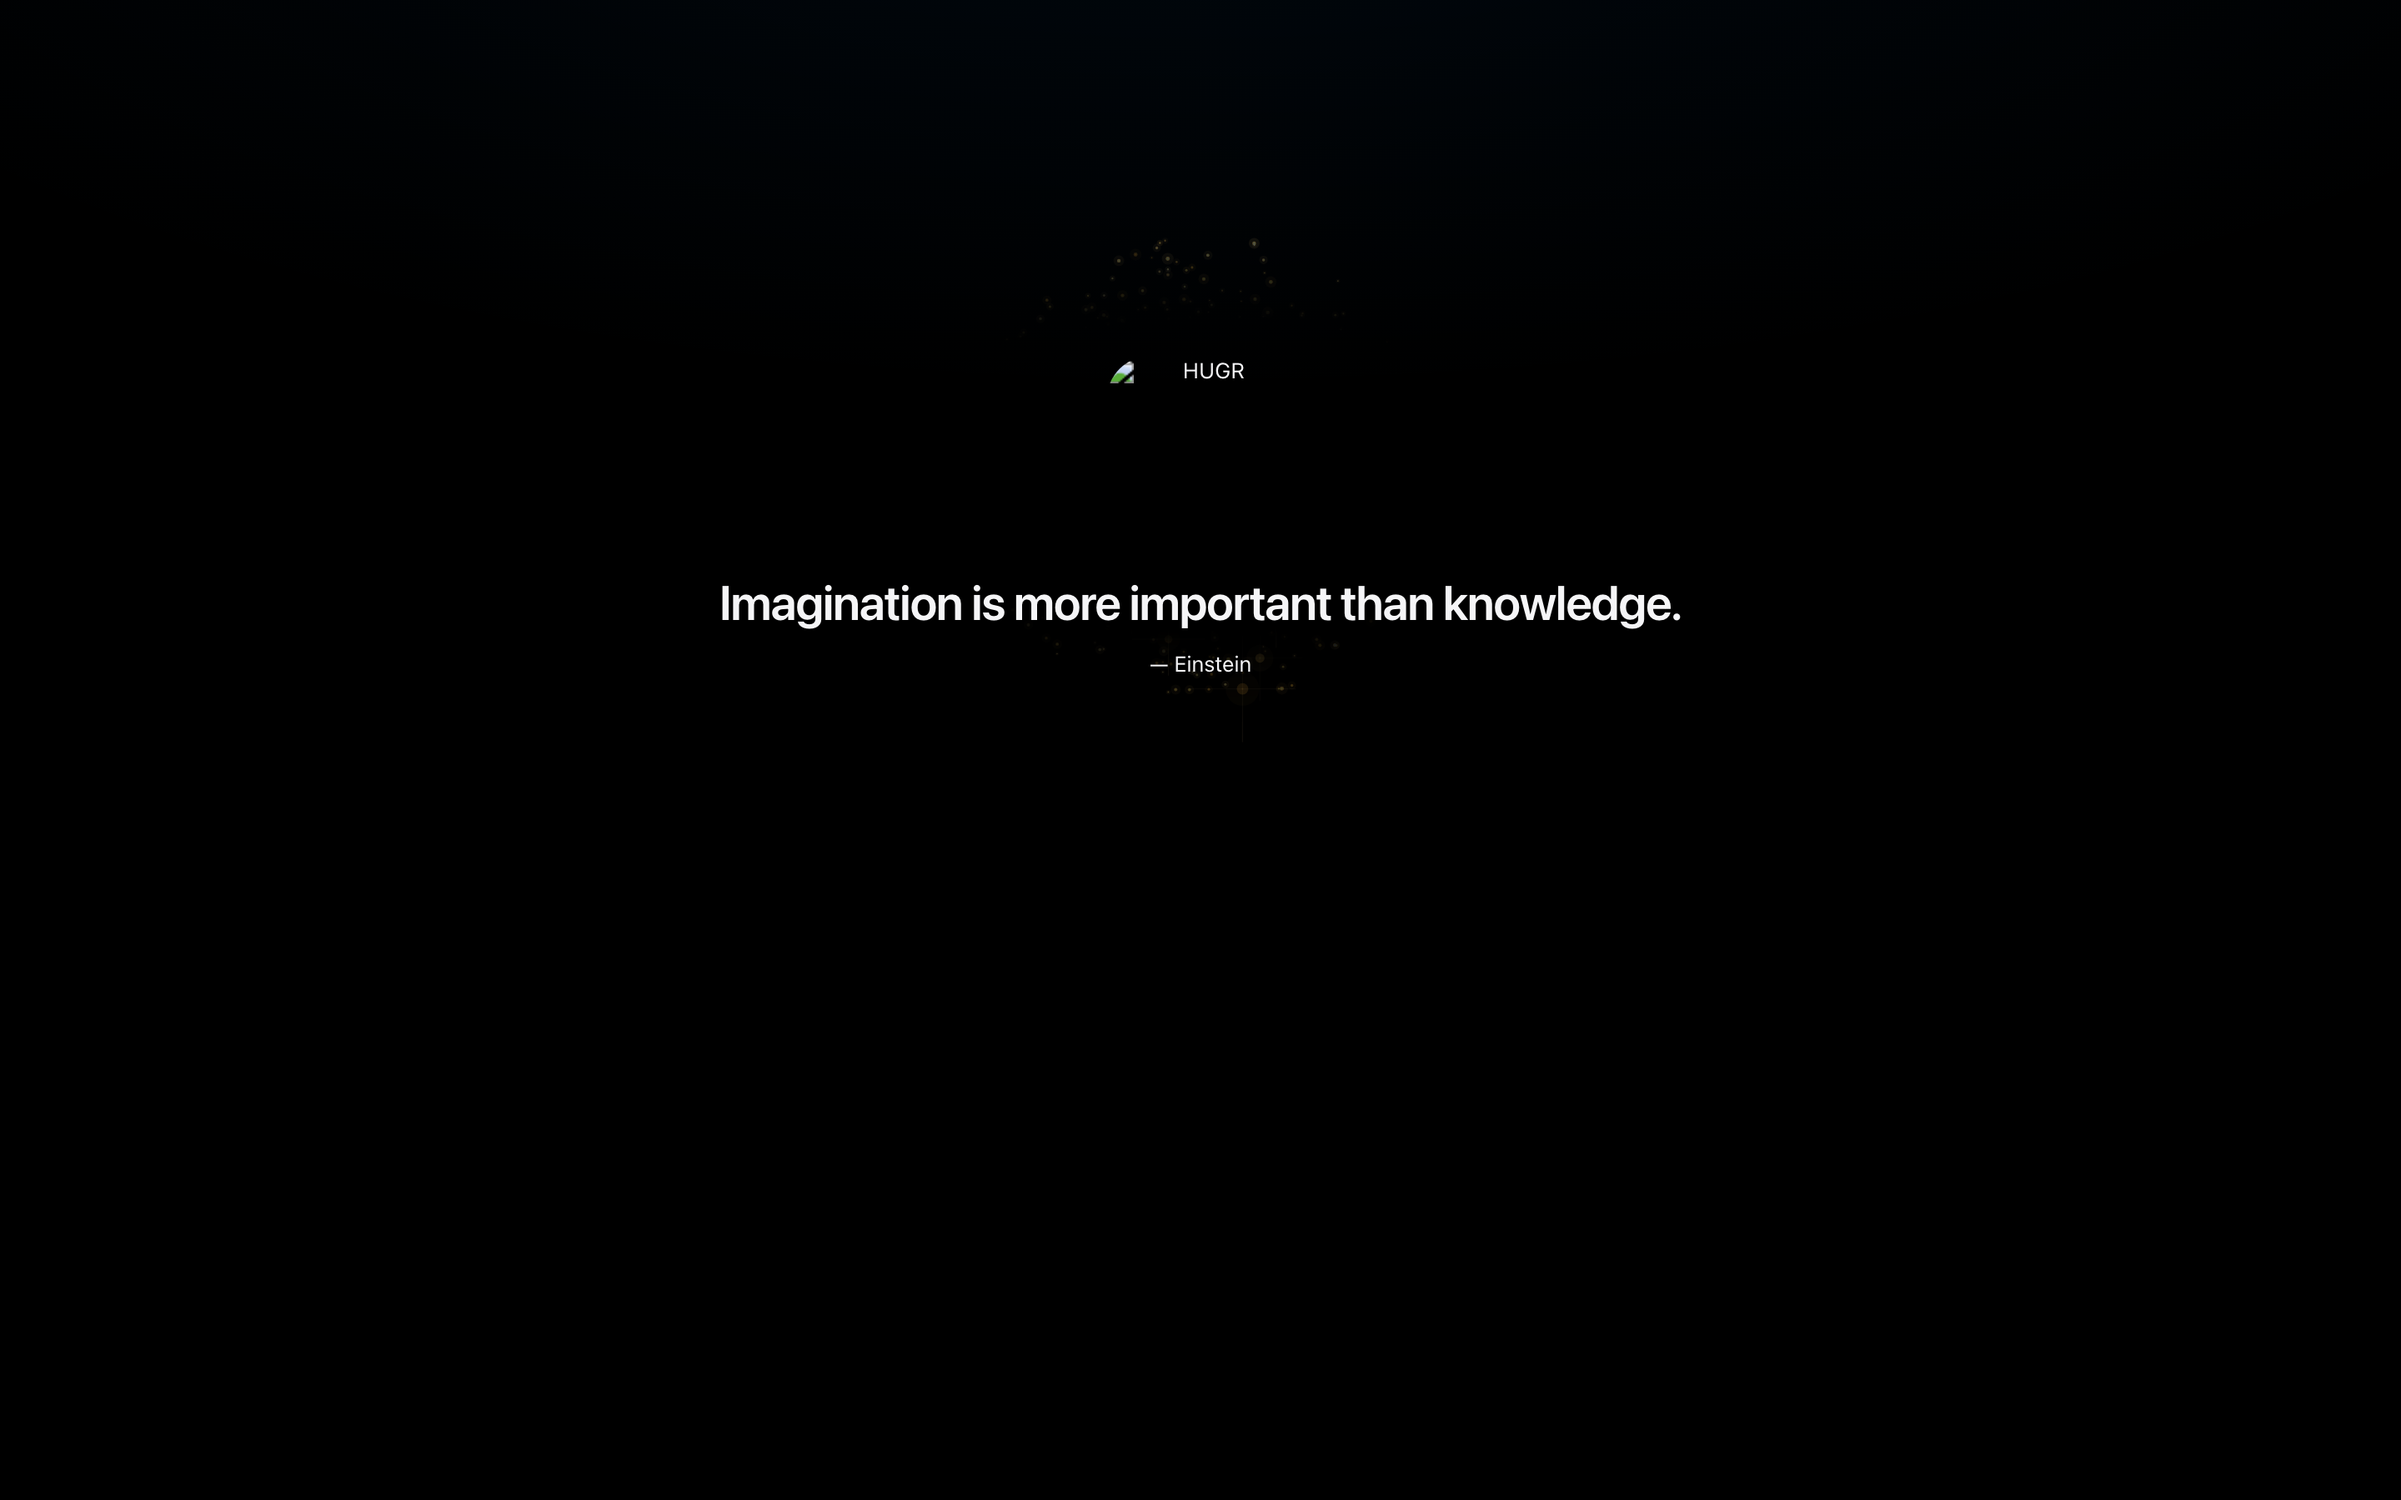
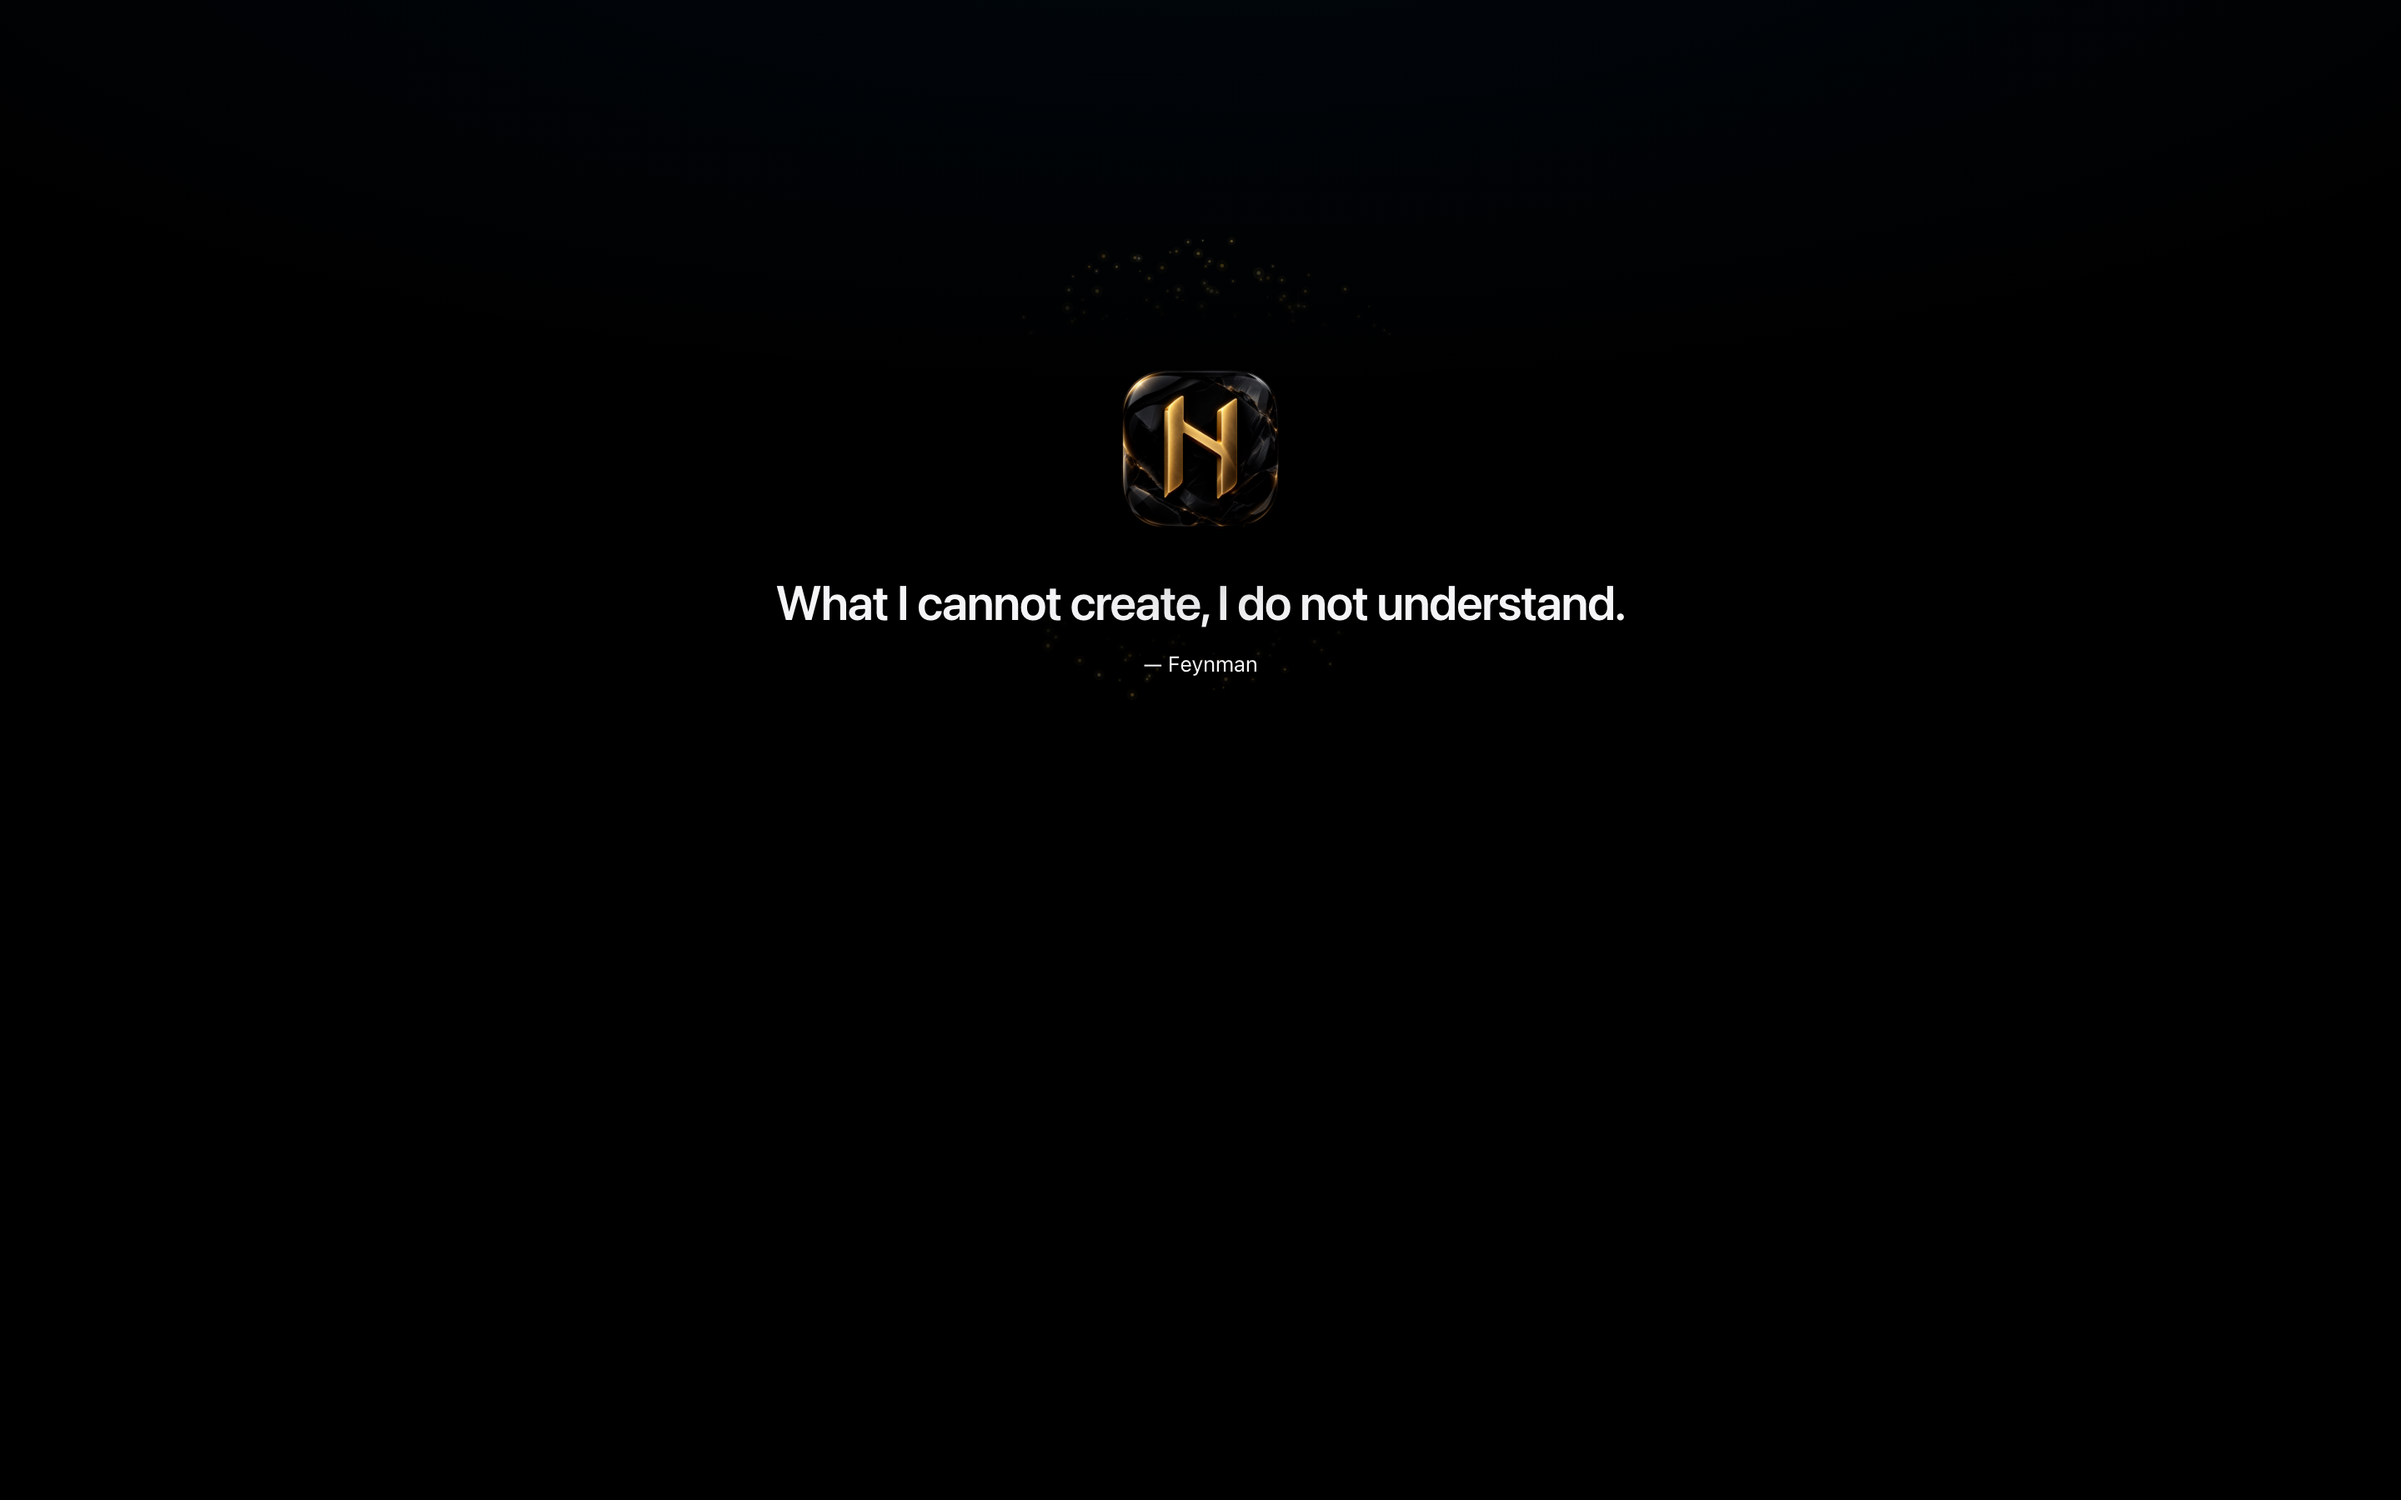
feat: newchat empty state proof rig — 8 real frames (both themes, all timestamps distinct)

Changed region(s): [[0.3125, 0.3733, 0.6875, 0.4667], [0.4688, 0.2489, 0.5312, 0.3422]]

diff --git a/tools/capture-frames.ts b/tools/capture-frames.ts
@@ -1,0 +1,210 @@
+#!/usr/bin/env bun
+
+import { chromium } from "playwright";
+import { writeFile, readFile, mkdir } from "fs/promises";
+import { createHash } from "crypto";
+import { resolve, dirname } from "path";
+import { serve } from "bun";
+
+const ROOT = resolve(import.meta.dir, "..");
+const SCREENSHOTS_DIR = resolve(ROOT, "screenshots");
+
+// Ensure screenshots directory exists
+await mkdir(SCREENSHOTS_DIR, { recursive: true });
+
+const THEMES = ["apple", "apple-dark"];
+const TIMESTAMPS = [0, 1500, 3000, 2600]; // ms
+
+interface Frame {
+  label: string;
+  path: string;
+  md5: string;
+  theme: string;
+  timestamp: number;
+  t2600Title?: string;
+}
+
+const frames: Frame[] = [];
+const md5s = new Map<string, string>();
+
+// Start simple HTTP server to serve the repo
+const PORT = 9988;
+
+const server = serve({
+  port: PORT,
+  fetch(req) {
+    const url = new URL(req.url);
+    const pathname = url.pathname === "/" ? "/tools/newchat-proof.html" : url.pathname;
+    const filePath = resolve(ROOT, pathname.slice(1)); // Remove leading /
+
+    // Basic file serving
+    if (pathname.endsWith(".html")) {
+      return new Response(Bun.file(filePath));
+    } else if (pathname.endsWith(".js")) {
+      return new Response(Bun.file(filePath), {
+        headers: { "Content-Type": "text/javascript" },
+      });
+    } else if (pathname.endsWith(".json")) {
+      return new Response(Bun.file(filePath), {
+        headers: { "Content-Type": "application/json" },
+      });
+    } else if (pathname.endsWith(".css")) {
+      return new Response(Bun.file(filePath), {
+        headers: { "Content-Type": "text/css" },
+      });
+    } else if (pathname.endsWith(".png")) {
+      return new Response(Bun.file(filePath), {
+        headers: { "Content-Type": "image/png" },
+      });
+    } else {
+      // Try serving as-is for any other file
+      return new Response(Bun.file(filePath));
+    }
+  },
+});
+
+console.log(`🌐 HTTP server started on http://localhost:${PORT}`);
+
+// Small delay to ensure server is ready
+await new Promise((resolve) => setTimeout(resolve, 500));
+
+console.log("🎬 Launching headless Chromium...");
+const browser = await chromium.launch({ headless: true });
+
+try {
+  for (const theme of THEMES) {
+    for (const ts of TIMESTAMPS) {
+      const frameLabel = `${theme}-t${ts}`;
+      const outputFile = resolve(SCREENSHOTS_DIR, `${frameLabel}.png`);
+
+      console.log(`📸 Capturing ${frameLabel}...`);
+
+      const page = await browser.newPage({
+        viewport: { width: 1440, height: 900 },
+        deviceScaleFactor: 2,
+      });
+
+      // Capture console for debugging
+      page.on("console", (msg) => {
+        if (msg.type() === "error") {
+          console.error(`  [console] ${msg.text()}`);
+        }
+      });
+
+      page.on("pageerror", (error) => {
+        console.error(`  [page error] ${error.message}`);
+      });
+
+      try {
+        // Load the HTML via HTTP
+        const url = `http://localhost:${PORT}/tools/newchat-proof.html`;
+        await page.goto(url, { waitUntil: "networkidle" });
+
+        // Set the theme BEFORE we wait
+        await page.evaluate((t) => {
+          document.documentElement.dataset.theme = t;
+        }, theme);
+
+        // Wait for the specified timestamp to let dust/animations play
+        if (ts > 0) {
+          await page.waitForTimeout(ts);
+        }
+
+        // Take screenshot
+        const screenshot = await page.screenshot({ path: outputFile });
+
+        // For t2600, extract the title for verification
+        let t2600Title: string | undefined;
+        if (ts === 2600) {
+          t2600Title = await page.evaluate(() => {
+            const el = document.querySelector(".newchat-title");
+            return el ? el.textContent : "NOT FOUND";
+          });
+        }
+
+        // Compute MD5
+        const hash = createHash("md5").update(screenshot).digest("hex");
+        md5s.set(frameLabel, hash);
+
+        frames.push({
+          label: frameLabel,
+          path: outputFile,
+          md5: hash,
+          theme,
+          timestamp: ts,
+          t2600Title,
+        });
+
+        console.log(`  ✓ ${frameLabel} (md5: ${hash.slice(0, 8)}...)`);
+        if (t2600Title && t2600Title !== "Creation is at your fingertips.") {
+          console.log(`  → t2600 saying: "${t2600Title}"`);
+        }
+      } finally {
+        await page.close();
+      }
+    }
+  }
+
+  // Self-gate: verify no duplicates
+  console.log("\n🔐 Self-gate: MD5 deduplication...");
+  const hashes = Array.from(md5s.values());
+  const uniqueHashes = new Set(hashes);
+
+  if (uniqueHashes.size !== hashes.length) {
+    console.error("❌ DUPLICATE FRAMES DETECTED!");
+    for (const [label, hash] of md5s) {
+      const count = hashes.filter((h) => h === hash).length;
+      if (count > 1) {
+        console.error(`   ${label}: ${hash} (×${count})`);
+      }
+    }
+    process.exit(1);
+  }
+
+  console.log(`✓ All 8 frames are distinct`);
+
+  // Report structure for verification
+  const report = {
+    timestamp: new Date().toISOString(),
+    frames: frames.map((f) => ({
+      label: f.label,
+      path: f.path,
+      md5: f.md5,
+      theme: f.theme,
+      timestamp: f.timestamp,
+      t2600Title: f.t2600Title,
+    })),
+    viewport: { width: 1440, height: 900, deviceScaleFactor: 2 },
+    themes: THEMES,
+    timestamps: TIMESTAMPS,
+    distinctFrames: uniqueHashes.size,
+  };
+
+  await writeFile(
+    resolve(SCREENSHOTS_DIR, "report.json"),
+    JSON.stringify(report, null, 2)
+  );
+
+  console.log("\n✅ PROOF COMPLETE");
+  console.log(`Root: ${ROOT}`);
+  console.log(`Screenshots: ${SCREENSHOTS_DIR}`);
+
+  // Output for task return
+  console.log("\n=== TASK RETURN ===");
+  console.log(`Frame paths:`);
+  for (const frame of frames) {
+    console.log(`  ${frame.path}`);
+  }
+  console.log(`\nMD5 list (proving all distinct):`);
+  for (const frame of frames) {
+    console.log(`  ${frame.label}: ${frame.md5}`);
+  }
+  console.log(`\nT2600 titles (per theme):`);
+  for (const frame of frames.filter((f) => f.timestamp === 2600)) {
+    console.log(`  ${frame.theme}: "${frame.t2600Title}"`);
+  }
+  console.log(`\nAll distinct: ${uniqueHashes.size === 8 ? "✓" : "❌"}`);
+} finally {
+  await browser.close();
+  process.exit(0);
+}

diff --git a/tools/newchat-proof.html b/tools/newchat-proof.html
@@ -1,0 +1,149 @@
+<!DOCTYPE html>
+<html lang="en">
+<head>
+  <meta charset="UTF-8">
+  <meta name="viewport" content="width=device-width, initial-scale=1">
+  <title>HUGR Newchat Empty State Proof</title>
+  <link rel="stylesheet" href="/web/src/styles.css">
+  <style>
+    * { margin: 0; padding: 0; box-sizing: border-box; }
+    html { font-family: -apple-system, BlinkMacSystemFont, "Segoe UI", "Helvetica Neue", sans-serif; }
+    body { width: 100%; height: 100vh; background: var(--color-bg-root); overflow: hidden; }
+    #root { width: 100%; height: 100%; }
+  </style>
+</head>
+<body>
+<div id="root"></div>
+
+<script type="module">
+  // Enable error logging
+  window.addEventListener('error', (e) => {
+    console.error('Uncaught error:', e.message, e.filename, e.lineno);
+  });
+  window.addEventListener('unhandledrejection', (e) => {
+    console.error('Unhandled rejection:', e.reason);
+  });
+
+  // Hyperscript helper (inline from dom.js for standalone use)
+  function h(tag, attrs = {}, ...children) {
+    const node = document.createElement(tag);
+    for (const [key, value] of Object.entries(attrs ?? {})) {
+      if (value === null || value === undefined || value === false) continue;
+      if (key === "class") node.className = String(value);
+      else if (key === "text") node.textContent = String(value);
+      else if (key === "value") node.value = String(value);
+      else if (key.startsWith("on") && typeof value === "function") {
+        node.addEventListener(key.slice(2).toLowerCase(), value);
+      } else {
+        node.setAttribute(key, value === true ? "" : String(value));
+      }
+    }
+    for (const child of children.flat()) {
+      if (child === null || child === undefined || child === false) continue;
+      node.append(child instanceof Node ? child : document.createTextNode(String(child)));
+    }
+    return node;
+  }
+
+  // Import newchat dust and sayings modules
+  console.log('Importing modules...');
+  let dustModule, sayingsModule;
+  try {
+    dustModule = await import("/web/src/newchat-dust.js");
+    console.log('✓ Loaded newchat-dust.js');
+  } catch (e) {
+    console.error('Failed to load newchat-dust.js:', e.message);
+    throw e;
+  }
+  try {
+    sayingsModule = await import("/web/src/newchat-sayings.js");
+    console.log('✓ Loaded newchat-sayings.js');
+  } catch (e) {
+    console.error('Failed to load newchat-sayings.js:', e.message);
+    throw e;
+  }
+  const { attachDust } = dustModule;
+  const { getRandomSaying } = sayingsModule;
+
+  // Perform the crossfade swap (from transcript.js emptyState logic)
+  function performSwap(titleEl, subEl, text, author) {
+    // Crossfade animation
+    titleEl.style.opacity = "0";
+    subEl.style.opacity = "0";
+    titleEl.style.transition = "opacity 0.3s ease-out";
+    subEl.style.transition = "opacity 0.3s ease-out";
+    
+    setTimeout(() => {
+      titleEl.textContent = text;
+      subEl.textContent = `— ${author}`;
+      titleEl.style.opacity = "1";
+      subEl.style.opacity = "1";
+    }, 300);
+  }
+
+  // Build the empty state (from transcript.js emptyState())
+  function emptyState() {
+    const canvas = h("canvas", { class: "newchat-dust" });
+    attachDust(canvas);
+
+    const titleEl = h("div", { class: "newchat-title", text: "Creation is at your fingertips." });
+    const subEl = h("div", { class: "newchat-sub", text: "How will you use it?" });
+
+    const container = h(
+      "div",
+      { class: "empty empty-newchat" },
+      h("div", { class: "newchat-art" }, canvas),
+      h(
+        "div",
+        { class: "newchat-copy" },
+        h("img", { class: "newchat-logo", src: "/web/img/hugr/hugr-512x512.png", alt: "HUGR", width: "112", height: "112" }),
+        titleEl,
+        subEl,
+      ),
+      h("span", { class: "newchat-fallback", text: "no messages" }),
+    );
+
+    // Schedule saying swap at t=2000ms: crossfade in title & sub
+    let swapTimer = null;
+    let mutationObserver = null;
+
+    const scheduleSwap = () => {
+      swapTimer = setTimeout(async () => {
+        try {
+          const saying = await getRandomSaying();
+          performSwap(titleEl, subEl, saying.text, saying.author);
+        } catch (e) {
+          console.warn("Failed to swap saying", e);
+        }
+      }, 2000);
+    };
+
+    const cleanup = () => {
+      if (swapTimer) clearTimeout(swapTimer);
+      if (mutationObserver) mutationObserver.disconnect();
+    };
+
+    // Watch for detach so we don't keep timers alive after removal
+    mutationObserver = new MutationObserver(() => {
+      if (!document.contains(container)) cleanup();
+    });
+    mutationObserver.observe(document.body, { childList: true, subtree: true });
+
+    scheduleSwap();
+    return container;
+  }
+
+  // Mount empty state to root
+  const root = document.getElementById("root");
+  if (!root) throw new Error("No root element found");
+  console.log('Mounting empty state...');
+  root.replaceChildren(emptyState());
+
+  // Log for debugging/proof
+  console.log("✓ Newchat empty state rendered at", new Date().toISOString());
+  console.log("Theme:", document.documentElement.dataset.theme || "(not set)");
+  const titleEl = document.querySelector(".newchat-title");
+  if (titleEl) console.log("Title text:", titleEl.textContent);
+</script>
+</body>
+</html>
